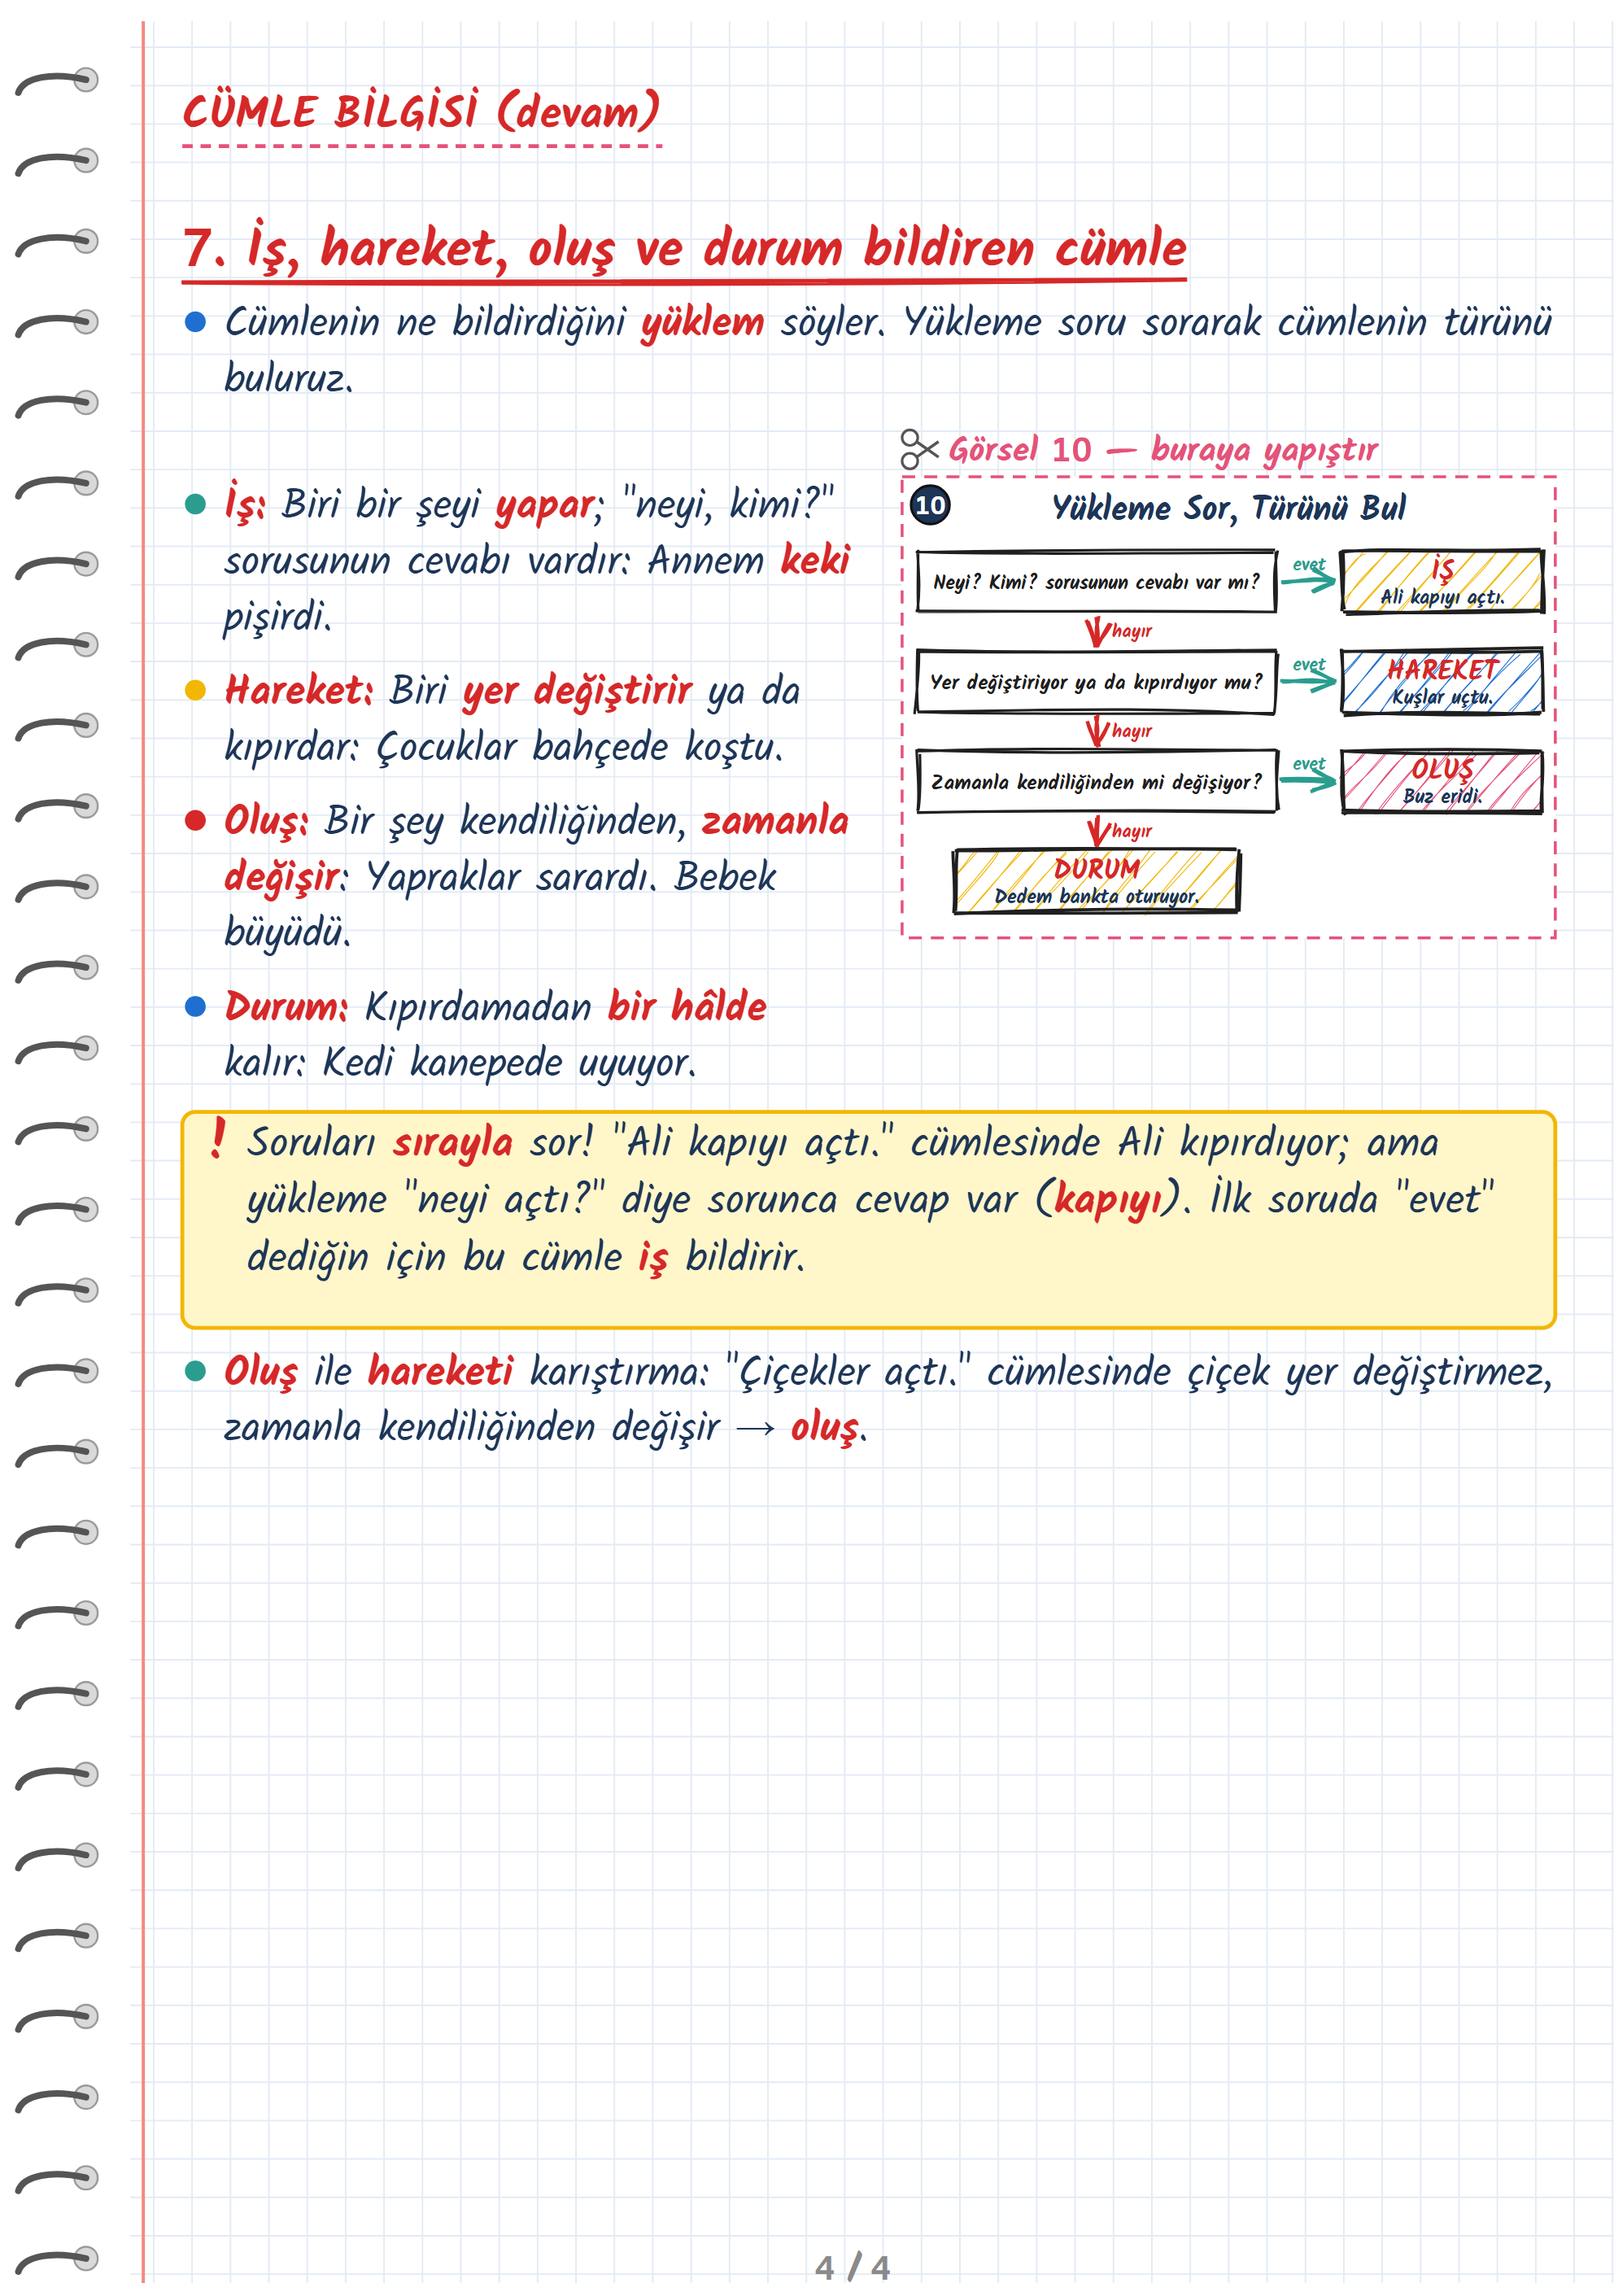
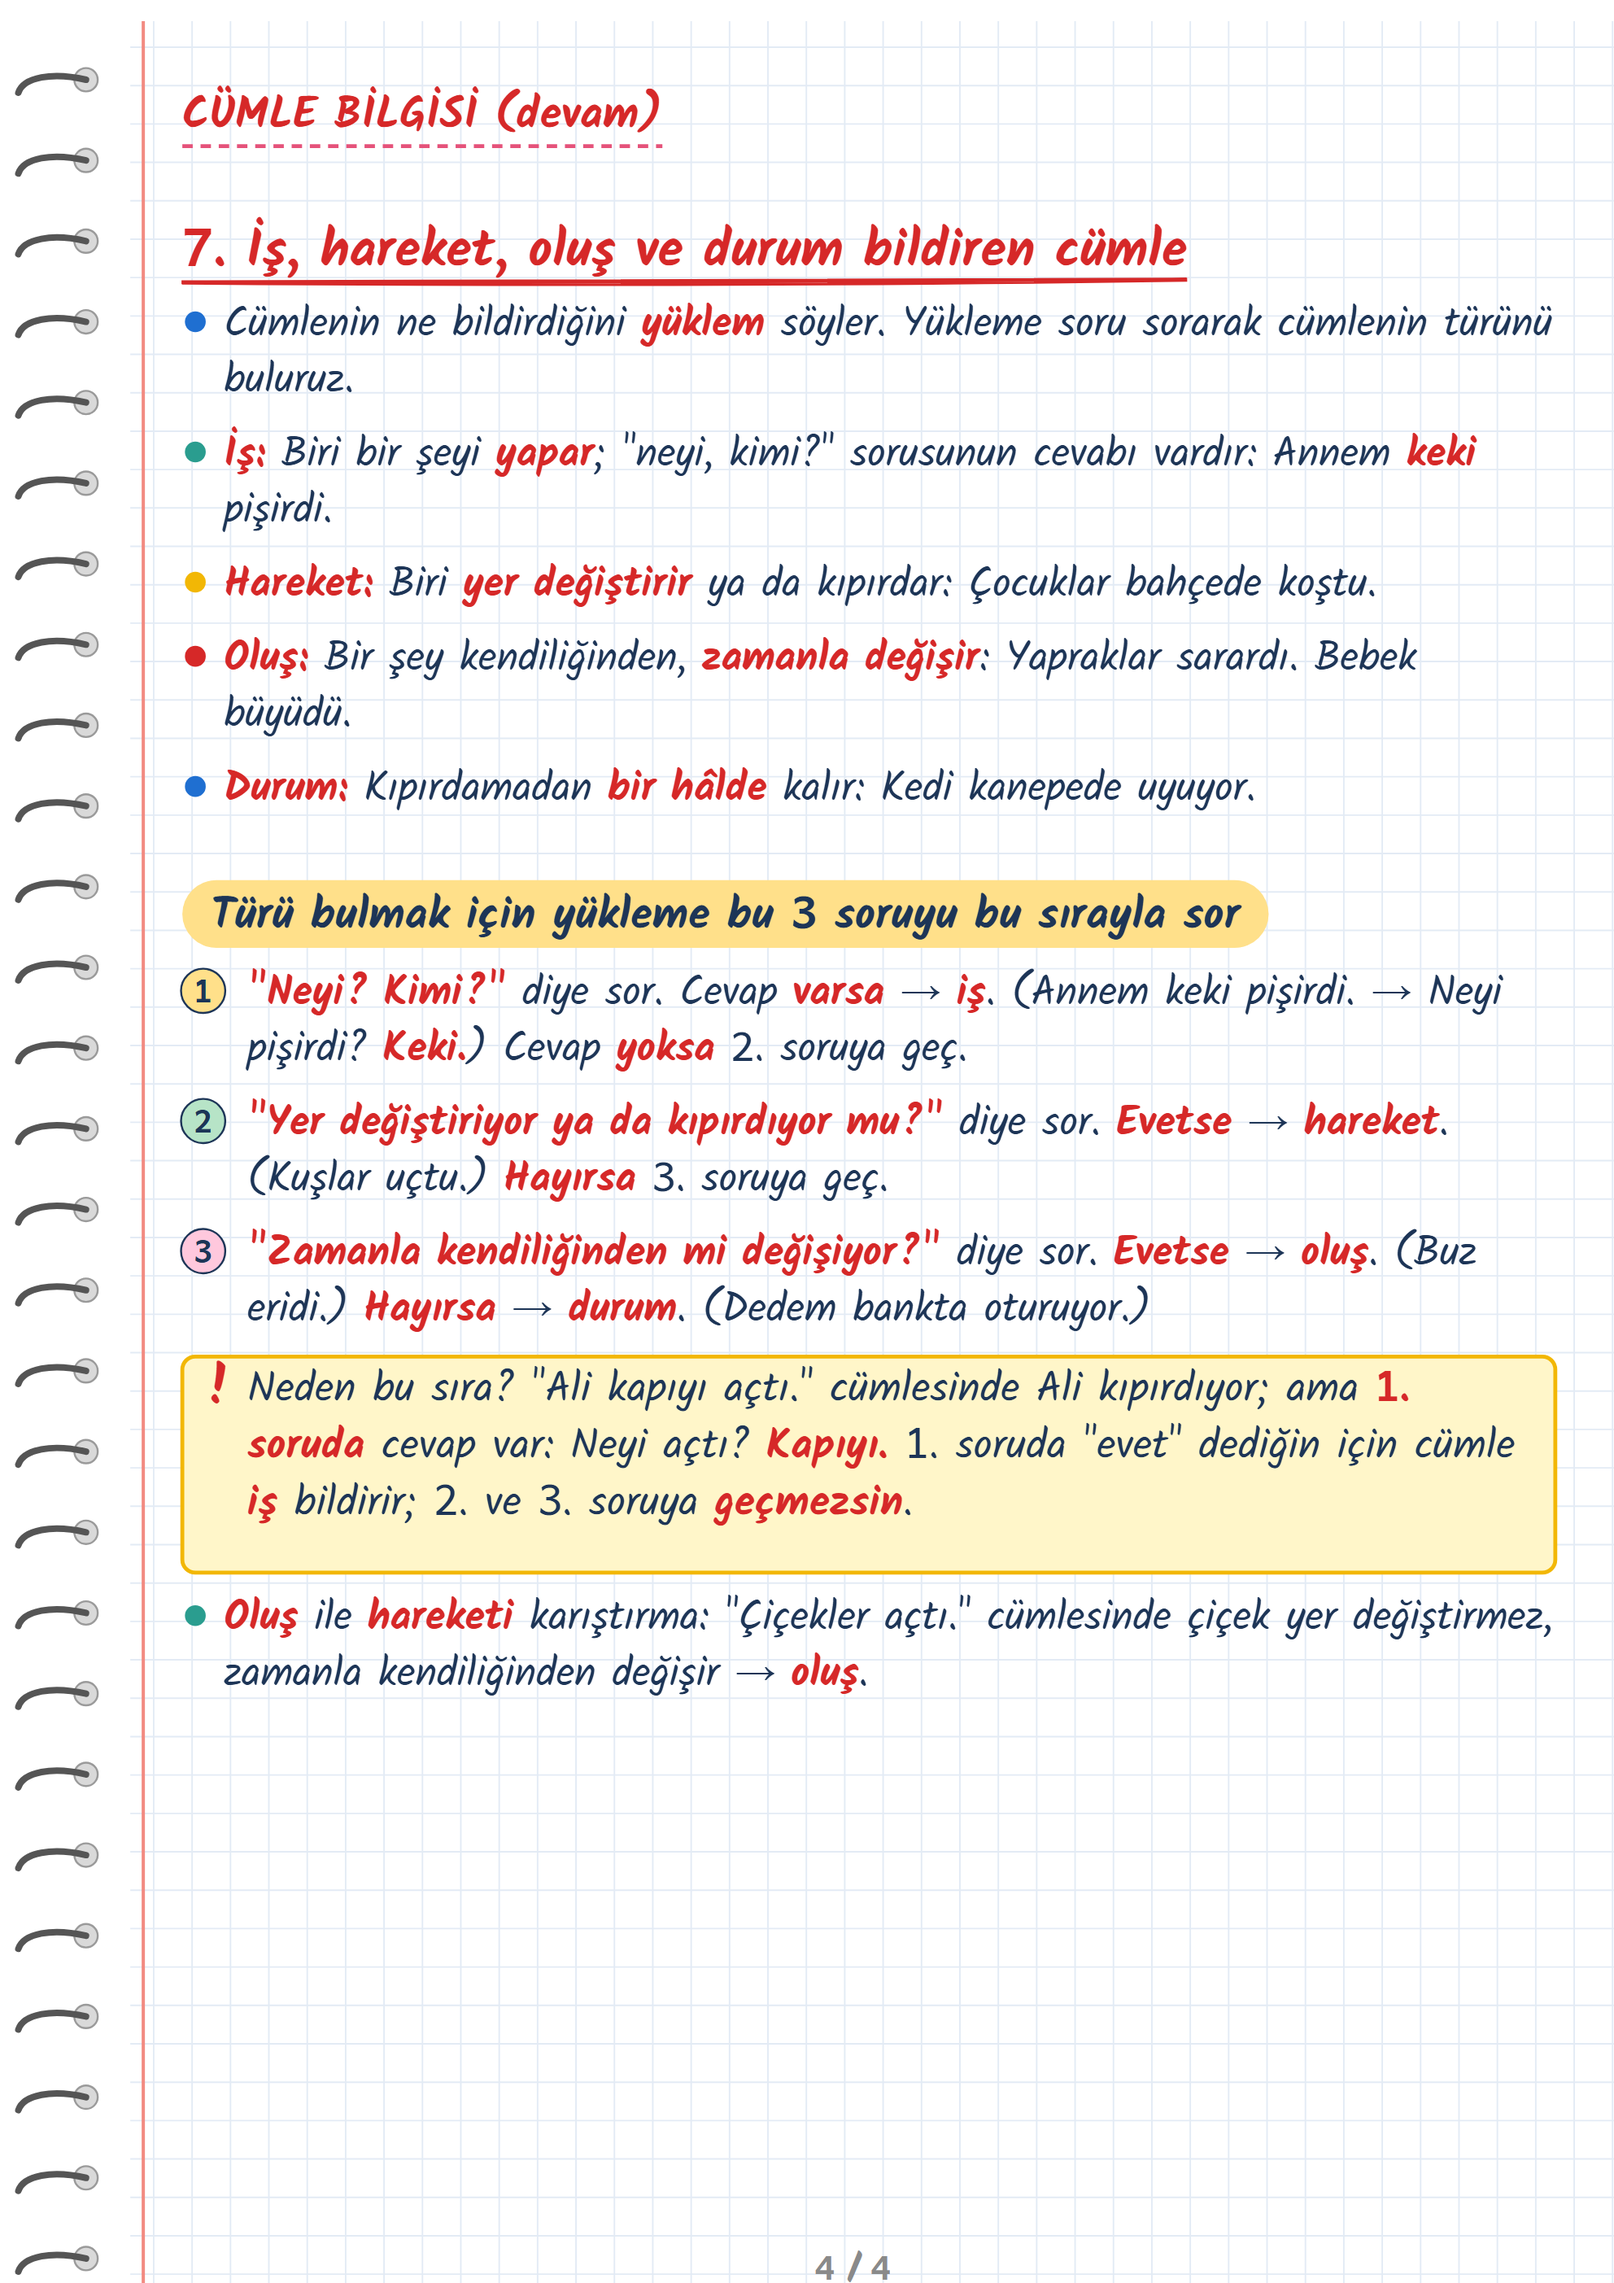
Cümle Bilgisi 4. sayfa: soru şeması görseli kaldırıldı (öğrenci kendisi yazar), 3 soru sırasıyla numaralı adım

Changed region(s): [[0.0938, 0.186, 0.9688, 0.7441]]

diff --git a/tools/sketchnote/notlar/tr-cumle-bilgisi.js b/tools/sketchnote/notlar/tr-cumle-bilgisi.js
@@ -50,13 +50,16 @@ Sketchnote.defterNotu({
 
     { konu: '7. İş, hareket, oluş ve durum bildiren cümle' },
     { madde: 'Cümlenin ne bildirdiğini **yüklem** söyler. Yükleme soru sorarak cümlenin türünü buluruz.' },
-    { gorsel: 10, metin: [
-      '**İş:** Biri bir şeyi **yapar**; "neyi, kimi?" sorusunun cevabı vardır: Annem **keki** pişirdi.',
-      '**Hareket:** Biri **yer değiştirir** ya da kıpırdar: Çocuklar bahçede koştu.',
-      '**Oluş:** Bir şey kendiliğinden, **zamanla değişir**: Yapraklar sarardı. Bebek büyüdü.',
-      '**Durum:** Kıpırdamadan **bir hâlde** kalır: Kedi kanepede uyuyor.',
-    ] },
-    { dikkat: 'Soruları **sırayla** sor! "Ali kapıyı açtı." cümlesinde Ali kıpırdıyor; ama yükleme "neyi açtı?" diye sorunca cevap var (**kapıyı**). İlk soruda "evet" dediğin için bu cümle **iş** bildirir.' },
+    { madde: '**İş:** Biri bir şeyi **yapar**; "neyi, kimi?" sorusunun cevabı vardır: Annem **keki** pişirdi.' },
+    { madde: '**Hareket:** Biri **yer değiştirir** ya da kıpırdar: Çocuklar bahçede koştu.' },
+    { madde: '**Oluş:** Bir şey kendiliğinden, **zamanla değişir**: Yapraklar sarardı. Bebek büyüdü.' },
+    { madde: '**Durum:** Kıpırdamadan **bir hâlde** kalır: Kedi kanepede uyuyor.', birlikte: true },
+    { ara: 'Türü bulmak için yükleme bu 3 soruyu bu sırayla sor' },
+    { adim: [
+      '**"Neyi? Kimi?"** diye sor. Cevap **varsa** → **iş**. (Annem keki pişirdi. → Neyi pişirdi? **Keki.**) Cevap **yoksa** 2. soruya geç.',
+      '**"Yer değiştiriyor ya da kıpırdıyor mu?"** diye sor. **Evetse** → **hareket**. (Kuşlar uçtu.) **Hayırsa** 3. soruya geç.',
+      '**"Zamanla kendiliğinden mi değişiyor?"** diye sor. **Evetse** → **oluş**. (Buz eridi.) **Hayırsa** → **durum**. (Dedem bankta oturuyor.)'] },
+    { dikkat: 'Neden bu sıra? "Ali kapıyı açtı." cümlesinde Ali kıpırdıyor; ama **1. soruda** cevap var: Neyi açtı? **Kapıyı.** 1. soruda "evet" dediğin için cümle **iş** bildirir; 2. ve 3. soruya **geçmezsin**.' },
     { madde: '**Oluş** ile **hareketi** karıştırma: "Çiçekler açtı." cümlesinde çiçek yer değiştirmez, zamanla kendiliğinden değişir → **oluş**.' },
   ],
 
@@ -181,38 +184,6 @@ Sketchnote.defterNotu({
       blok(84, 'SEBEP → SONUÇ', 'Yağmur yağdığı için', 'ıslandık.', 'neden oldu?', 'ne oldu?', SARI);
       blok(206, 'AMAÇ → SONUÇ', 'Kazanmak için', 'çok çalıştı.', 'ne istedi?', 'ne yaptı?', MAVI);
       yazi(255, 334, 'Sebep: olayın nedeni  •  Amaç: ulaşılmak istenen', 19, { 'text-anchor': 'middle', fill: S.m(R.lacivert) });
-    } },
-    // 10 — İş / hareket / oluş / durum karar şeması (kodla; soruların sırası önemli: önce "neyi?")
-    { ad: 'Yükleme sor, türünü bul', ciz(S) {
-      const { rc, o, ekle, yazi, ok } = S, R = Sketchnote.R, SARI = Sketchnote.SARI, MAVI = Sketchnote.MAVI;
-      yazi(255, 34, 'Yükleme Sor, Türünü Bul', 26, { class: 'kalin', 'text-anchor': 'middle', fill: S.m(R.lacivert) });
-      const SX = 12, SW = 280, NX = 344, NW = 156, H = 48;
-      const soru = (y, t) => {
-        ekle(rc.rectangle(SX, y - H / 2, SW, H, o({ strokeWidth: 2 })));
-        let boy = 18;
-        while (boy > 13 && S.genislik(t, boy, { class: 'kalin' }) > SW - 18) boy -= 0.5;
-        yazi(SX + SW / 2, y + 6, t, boy, { class: 'kalin', 'text-anchor': 'middle' });
-      };
-      const sonuc = (x, y, w, ad, ornek, renk) => {
-        ekle(rc.rectangle(x, y - H / 2, w, H, o({ fill: S.r(renk), fillStyle: 'hachure', hachureGap: 13, fillWeight: 0.7, strokeWidth: 2.4 })));
-        yazi(x + w / 2, y - 2, ad, 21, { class: 'kalin', 'text-anchor': 'middle', fill: S.m(R.kirmizi) });
-        yazi(x + w / 2, y + 17, ornek, 15, { class: 'kalin', 'text-anchor': 'middle', fill: S.m(R.lacivert) });
-      };
-      const satirlar = [
-        [82, 'Neyi? Kimi? sorusunun cevabı var mı?', 'İŞ', 'Ali kapıyı açtı.', SARI],
-        [160, 'Yer değiştiriyor ya da kıpırdıyor mu?', 'HAREKET', 'Kuşlar uçtu.', MAVI],
-        [238, 'Zamanla kendiliğinden mi değişiyor?', 'OLUŞ', 'Buz eridi.', R.pembe],
-      ];
-      for (const [y, s, ad, ornek, renk] of satirlar) {
-        soru(y, s);
-        ok([[SX + SW + 4, y], [NX - 22, y - 1], [NX - 6, y]], S.m(R.yesil));
-        yazi((SX + SW + NX) / 2, y - 9, 'evet', 14, { class: 'kalin', 'text-anchor': 'middle', fill: S.m(R.yesil) });
-        sonuc(NX, y, NW, ad, ornek, renk);
-        const ax = SX + SW / 2, y1 = y + H / 2 + 3, y2 = y + 78 - H / 2 - 4;
-        ok([[ax, y1], [ax + 1, (y1 + y2) / 2], [ax, y2]], S.m(R.kirmizi));
-        yazi(ax + 12, (y1 + y2) / 2 + 5, 'hayır', 14, { class: 'kalin', fill: S.m(R.kirmizi) });
-      }
-      sonuc(SX + SW / 2 - 110, 316, 220, 'DURUM', 'Dedem bankta oturuyor.', SARI);
     } },
   ],
 });
